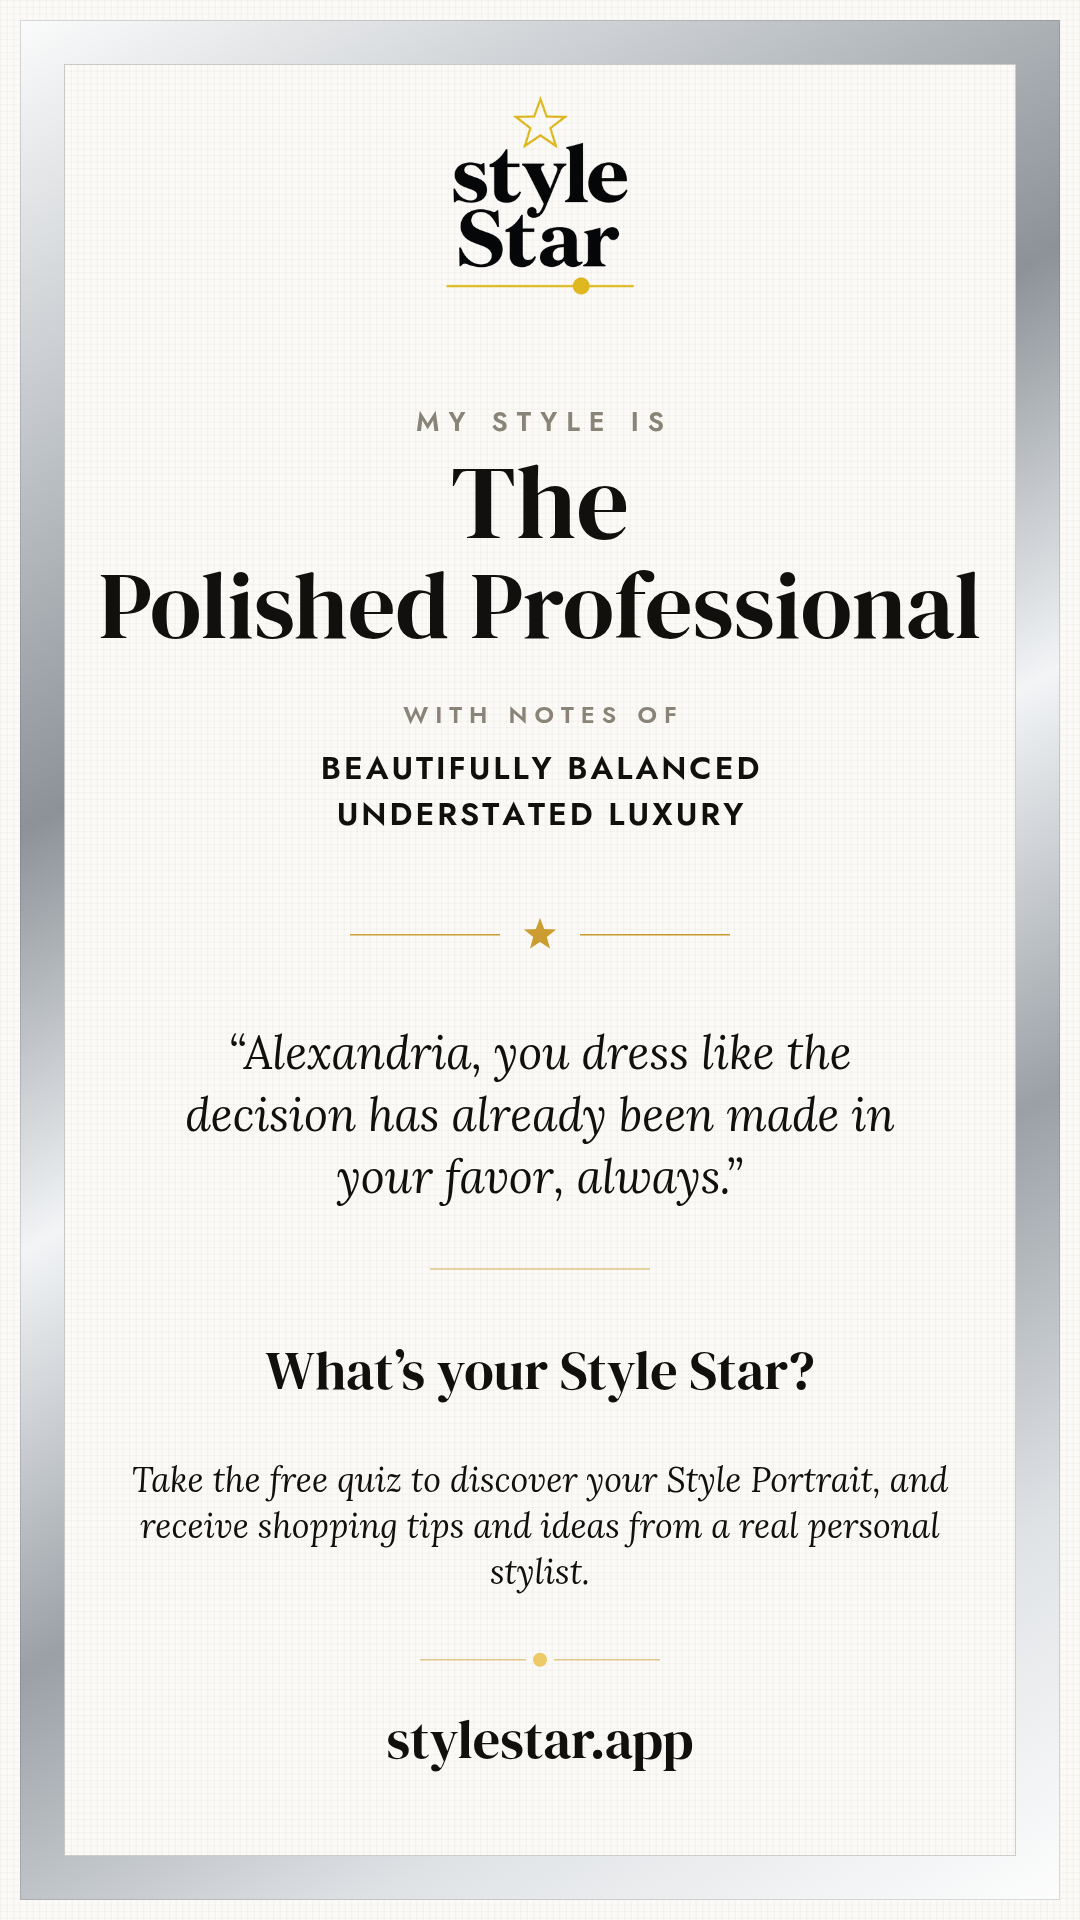
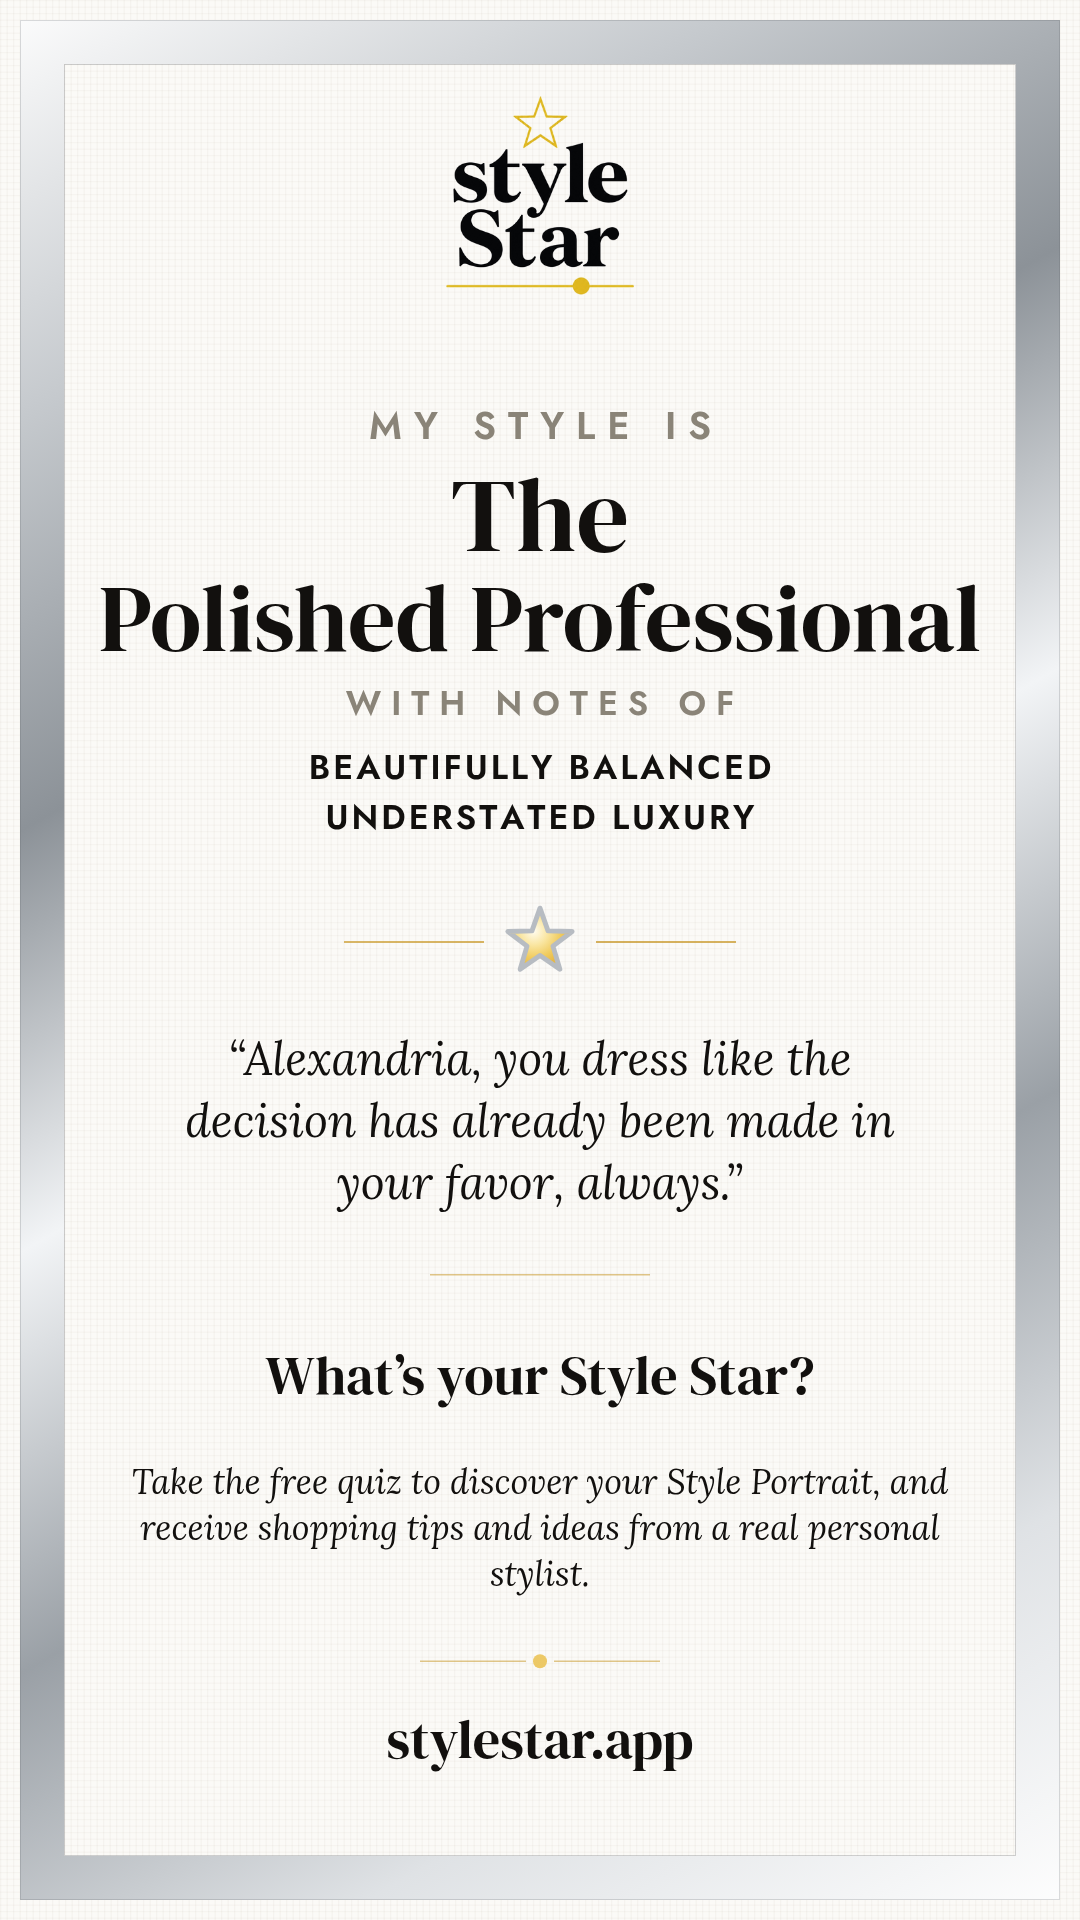
Her real star, bigger labels, and the notes tuck under the name
Four calls from her, all shipped:

1. "MY STYLE IS" and "WITH NOTES OF" a lot larger: 27 -> 38px and 24 -> 34px,
   with the tracking opened to match (9 -> 12, 7 -> 10).

2. The gap between the archetype and its notes closes: the name's trailing air
   goes 34px -> 6px. That is the gap she was pointing at, and it is the one seam
   the air budget deliberately skips.

3. HER REAL STAR replaces the flat gold one — _SHOP_STAR_SVG, the shiny star that
   spins while Shop your style is thinking: a radial gold gradient with a SILVER
   outline. Her call and it is right twice over: it is already her mark, and its
   silver edge is the same metal as this card's frame, so the two speak to each
   other instead of a flat gold dot sitting there on its own.
   ⚠ The path, the four gradient stops and the silver stroke are copied EXACTLY
   from _SHOP_STAR_SVG. If that star is ever restyled, restyle this with it.

⚠⚠ AND THE STAR DID NOT SURVIVE THE MOVE UNCHANGED — MEASURED, NOT EYEBALLED.
Dropped in verbatim, its centre measured 1.08:1 against this paper and the whole
star rendered as a hollow outline. The reason is the same physics that beat the
gold-leaf frame earlier today: THE GRADIENT IS BUILT FOR THE DARK SHOP SCREEN,
where its near-white core reads as GLOW. On white paper the highlight IS the
paper. Fixed WITHOUT touching a single colour: the ramp is pulled in from r=70%
to r=46% of the box, so #F0CB5E and #E6B845 fill the body while #FFFCEF stays a
[…]

diff --git a/index.html b/index.html
@@ -12075,13 +12075,42 @@ function buildCardBlob(source,callback){
     if(line)lines.push(line);
     return lines;
   }
-  function star(cx,cy,r,fill){
-    ctx.save();ctx.beginPath();
-    for(let i=0;i<10;i++){
-      const a=-Math.PI/2+i*Math.PI/5,rr=i%2?r*0.42:r;
-      ctx[i?'lineTo':'moveTo'](cx+Math.cos(a)*rr,cy+Math.sin(a)*rr);
-    }
-    ctx.closePath();ctx.fillStyle=fill;ctx.fill();ctx.restore();
+  /* HER star, not a generic one: this is _SHOP_STAR_SVG, the shiny gold star
+     that spins while Shop your style is thinking — a radial gold gradient with a
+     SILVER outline. Her call, and it is the right one twice over: it is already
+     her mark, and its silver edge is the same metal as this card's frame, so the
+     two speak to each other instead of the star sitting there as a flat gold dot.
+     ⚠ The path, the gradient stops and the silver stroke are copied EXACTLY from
+     _SHOP_STAR_SVG. If that star is ever restyled, restyle this with it. */
+  const _STAR_PATH=[[12,1.6],[14.47,8.6],[21.89,8.79],[15.99,13.3],[18.11,20.41],
+                    [12,16.2],[5.89,20.41],[8.01,13.3],[2.11,8.79],[9.53,8.6]];
+  function star(cx,cy,size){
+    const k=size/24, ox=cx-12*k, oy=cy-12*k;
+    ctx.save();
+    ctx.beginPath();
+    _STAR_PATH.forEach(function(p,i){
+      const x=ox+p[0]*k, y=oy+p[1]*k;
+      if(i)ctx.lineTo(x,y);else ctx.moveTo(x,y);
+    });
+    ctx.closePath();
+    /* ⚠ SAME FOUR COLOURS, TIGHTER HIGHLIGHT, and the reason is measured. The
+       original gradient runs to r=70% of the box, which on the DARK Shop screen
+       reads as glow — that is what it was drawn for. On this white paper the
+       highlight IS the paper: the star's centre measured 1.08:1 against the sheet
+       and the whole thing rendered as a hollow outline. Pulling the ramp in to
+       r=46% makes #F0CB5E and #E6B845 fill the body while #FFFCEF stays as a
+       small specular catch, which is how metal actually behaves on a light
+       ground. No colour was changed and the silver edge is untouched.
+       ▶ Same lesson as the gold-leaf frame earlier: A RAMP BUILT FOR A DARK
+       BACKGROUND LOSES ITS LIGHT HALF ON PAPER. */
+    const g=ctx.createRadialGradient(ox+10.08*k,oy+8.64*k,0,ox+10.08*k,oy+8.64*k,11*k);
+    g.addColorStop(0,'#FFFCEF');g.addColorStop(.4,'#F9E5A0');
+    g.addColorStop(.75,'#F0CB5E');g.addColorStop(1,'#E6B845');
+    ctx.fillStyle=g;ctx.fill();
+    // the silver edge firms up a touch so the silhouette reads on paper; it is
+    // the same #B7BCC2, and the same metal as this card's frame
+    ctx.lineJoin='round';ctx.lineWidth=1.5*k;ctx.strokeStyle='#B7BCC2';ctx.stroke();
+    ctx.restore();
   }
   // her white linen: #FBFAF7 plus the pref-qcard's own two weave gradients,
   // copied so the card and that screen can never drift
@@ -12156,8 +12185,8 @@ function buildCardBlob(source,callback){
     const head=words[0],rest=words.slice(1).join(' ')||words[0];
     const fsHead=104;
     const fs=fitFont(rest,'"DM Serif Display", serif',116,58,W-190);
-    const H_LOGO=LOGO_H+72,H_OVER=54,H_NAME=fsHead*1.02+fs*1.06+34,
-          H_DIV=96,H_NOT=notes.length?(74+notes.length*46):0;
+    const H_LOGO=LOGO_H+72,H_OVER=68,H_NAME=fsHead*1.02+fs*1.06+6,
+          H_DIV=96,H_NOT=notes.length?(90+notes.length*50):0;
     const room=H-TOP_MARGIN-FOOT_MARGIN-tailBase;
     let ms=46,ml,H_MOT,blockH;
     for(;;){
@@ -12221,8 +12250,8 @@ function buildCardBlob(source,callback){
     }
     y+=H_LOGO+AIR;
 
-    ctx.fillStyle=TAUPE;ctx.font='600 27px "Jost", sans-serif';
-    trackedText('MY STYLE IS',W/2,y+28,9);
+    ctx.fillStyle=TAUPE;ctx.font='600 38px "Jost", sans-serif';
+    trackedText('MY STYLE IS',W/2,y+38,12);
     y+=H_OVER;
 
     ctx.fillStyle=BLACK;
@@ -12242,19 +12271,19 @@ function buildCardBlob(source,callback){
        ▶ So do NOT add AIR here. The seam above the divider is where the space
        goes, and that is what keeps the group reading as a group. */
     if(notes.length){
-      ctx.fillStyle=TAUPE;ctx.font='600 24px "Jost", sans-serif';
-      trackedText('WITH NOTES OF',W/2,y+26,7);
+      ctx.fillStyle=TAUPE;ctx.font='600 34px "Jost", sans-serif';
+      trackedText('WITH NOTES OF',W/2,y+34,10);
       /* STACKED, not side by side (her call). It also removed a real weakness:
          side by side the two longest names ran 40 chars together and drove the
          shrink-to-fit loop down to keep them on one line; stacked, each gets the
          full width and holds its size. */
       const short=notes.map(function(n){return String(n).replace(/^The\s+/i,'').toUpperCase()});
       ctx.fillStyle=BLACK;
-      let ns=32;ctx.font='600 '+ns+'px "Jost", sans-serif';
+      let ns=34;ctx.font='600 '+ns+'px "Jost", sans-serif';
       while(short.some(function(n){return trackedWidth(n,3)>W-200})&&ns>20){
         ns--;ctx.font='600 '+ns+'px "Jost", sans-serif';
       }
-      short.forEach(function(n,i){trackedText(n,W/2,y+82+i*46,3)});
+      short.forEach(function(n,i){trackedText(n,W/2,y+98+i*50,3)});
     }
 
     y+=H_NOT+AIR;
@@ -12263,9 +12292,10 @@ function buildCardBlob(source,callback){
     const dy=y+40;
     ctx.strokeStyle=gold;ctx.lineWidth=1.6;
     ctx.beginPath();
-    ctx.moveTo(W/2-190,dy);ctx.lineTo(W/2-40,dy);
-    ctx.moveTo(W/2+40,dy);ctx.lineTo(W/2+190,dy);ctx.stroke();
-    star(W/2,dy,17,gold);
+    ctx.moveTo(W/2-196,dy);ctx.lineTo(W/2-56,dy);
+    ctx.moveTo(W/2+56,dy);ctx.lineTo(W/2+196,dy);ctx.stroke();
+    star(W/2,dy,78);   // her star is delicate on paper; size is the lever that
+                       // does not touch its colours
     y+=H_DIV+AIR;
 
     ctx.fillStyle=BLACK;ctx.font='italic 400 '+ms+'px "Lora", serif';
